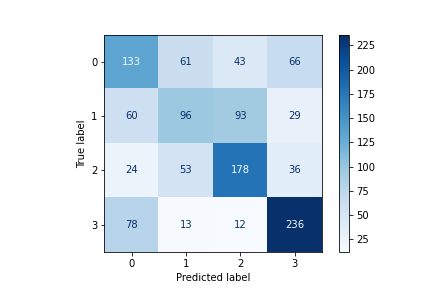
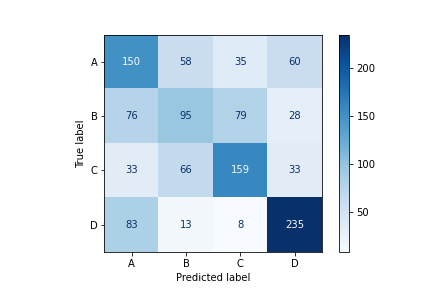
Bulk changes

diff --git a/Customer-Segmentation/train.py b/Customer-Segmentation/train.py
@@ -11,7 +11,6 @@ import pickle
 import numpy as np
 import pandas as pd
 import seaborn as sns
-from tensorflow.keras.optimizers import Adam
 import matplotlib.pyplot as plt
 from datetime import datetime
 from cs_lib import plot_missing_val, plot_features_target, encoder_cat_features
@@ -24,6 +23,7 @@ from sklearn.model_selection import train_test_split
 from tensorflow.keras import Sequential
 from tensorflow.keras.utils import plot_model
 from tensorflow.keras.layers import Input, Dense, Dropout, BatchNormalization
+from tensorflow.keras.optimizers import Adam
 from tensorflow.keras.callbacks import TensorBoard, EarlyStopping
 
 # %% Paths
@@ -31,8 +31,10 @@ TRAIN_DATASET_PATH = os.path.join(os.getcwd(), 'database', 'train.csv')
 SCALER_PATH = os.path.join(os.getcwd(), 'saved_objects', 'scaler.pkl')
 ENCODER_PATH = os.path.join(os.getcwd(), 'saved_objects', 'oh_encoder.pkl')
 IMPUTER_PATH = os.path.join(os.getcwd(), 'saved_objects', 'knn_imputer.pkl')
-LOG_PATH = os.path.join(os.getcwd(), 'logs')
+TARGET_ENCODER_PATH = os.path.join(os.getcwd(), 'saved_objects',
+                                   'encoder-Segmentation.pkl')
 MODEL_PATH = os.path.join(os.getcwd(), 'saved_objects', 'dl_model.h5')
+LOG_PATH = os.path.join(os.getcwd(), 'logs')
 PLOT_MODEL_PATH = os.path.join(os.getcwd(), 'static',
                                'model-architecture.png')
 FIGURES_PATH = os.path.join(os.getcwd(), 'static')
@@ -160,7 +162,8 @@ acc_score = round(accuracy_score(y_test.argmax(1), y_pred.argmax(1))*100, 2)
 print(f'The accuracy score is {acc_score}%')
 
 cm = confusion_matrix(y_test.argmax(1), y_pred.argmax(1))
-disp = ConfusionMatrixDisplay(cm, display_labels=list(range(4)))
+disp_labels = sorted(df['Segmentation'].unique())
+disp = ConfusionMatrixDisplay(cm, display_labels=disp_labels)
 plt.figure()
 disp.plot(cmap=plt.cm.Blues)
 plt.savefig(os.path.join(FIGURES_PATH, 'confusion-matrix-display.png'))

diff --git a/Customer-Segmentation/deploy.py b/Customer-Segmentation/deploy.py
@@ -6,11 +6,11 @@ Created on Wed May 18 09:27:26 2022
 """
 # %% Imports
 import os
-import pickle
 import numpy as np
 import pandas as pd
 from tensorflow.keras.models import load_model
 from cs_lib import encoder_cat_features, separate_features_target
+from cs_lib import return_saved_objects
 
 # %% Paths
 TEST_DATASET_PATH = os.path.join(os.getcwd(), 'database', 'new_customers.csv')
@@ -23,18 +23,11 @@ MODEL_PATH = os.path.join(os.getcwd(), 'saved_objects', 'dl_model.h5')
 TARGET_ENCODER_PATH = os.path.join(os.getcwd(), 'saved_objects',
                                    'encoder-Segmentation.pkl')
 
-# %% load scaler & encoder
-with open(SCALER_PATH, 'rb') as file:
-    mm_scaler = pickle.load(file)
-
-with open(ENCODER_PATH, 'rb') as file:
-    oh_encoder = pickle.load(file)
-
-with open(IMPUTER_PATH, 'rb') as file:
-    imputer = pickle.load(file)
-
-with open(TARGET_ENCODER_PATH, 'rb') as file:
-    segmentation_encoder = pickle.load(file)
+# %% Load objects
+mm_scaler = return_saved_objects(SCALER_PATH)
+oh_encoder = return_saved_objects(ENCODER_PATH)
+imputer = return_saved_objects(IMPUTER_PATH)
+segmentation_encoder = return_saved_objects(TARGET_ENCODER_PATH)
 
 # %% Load DL model
 model = load_model(MODEL_PATH)
@@ -49,8 +42,6 @@ cat_features = cat_cols[:-1]
 
 # %%% Data Cleaning
 df_clean = df_test.copy()  # create dataframe copy for cleaning
-# # drop ID columns as it is not treated as a feature
-# df_clean = df_clean.drop(labels=['ID'], axis=1)
 
 # %%%% encode categorical data & change to numerical
 for col_name in cat_cols:
@@ -69,6 +60,9 @@ X_scaled = mm_scaler.transform(X)
 # %% Model prediction
 y_pred = model.predict(X_scaled).argmax(1)
 
+# get A B C D labels by using inverse_transform
 label_pred = segmentation_encoder.inverse_transform(y_pred)
+
+# save segmentation as a result dataset
 df_test['Segmentation'] = label_pred
 df_test.to_csv(SAVE_RESULT, index=False)

diff --git a/Customer-Segmentation/cs_lib.py b/Customer-Segmentation/cs_lib.py
@@ -157,3 +157,22 @@ def check_unique_values(data, col_name):
 
     """
     print('{}:\n{}'.format(col_name, data[col_name].unique()))
+
+
+def return_saved_objects(path):
+    """
+    Return an object from a pickle file.
+
+    Parameters
+    ----------
+    path : str
+        The path to the saved objects.
+
+    Returns
+    -------
+    object
+        Return an object from a pickle file.
+
+    """
+    with open(path, 'rb') as file:
+        return pickle.load(file)
